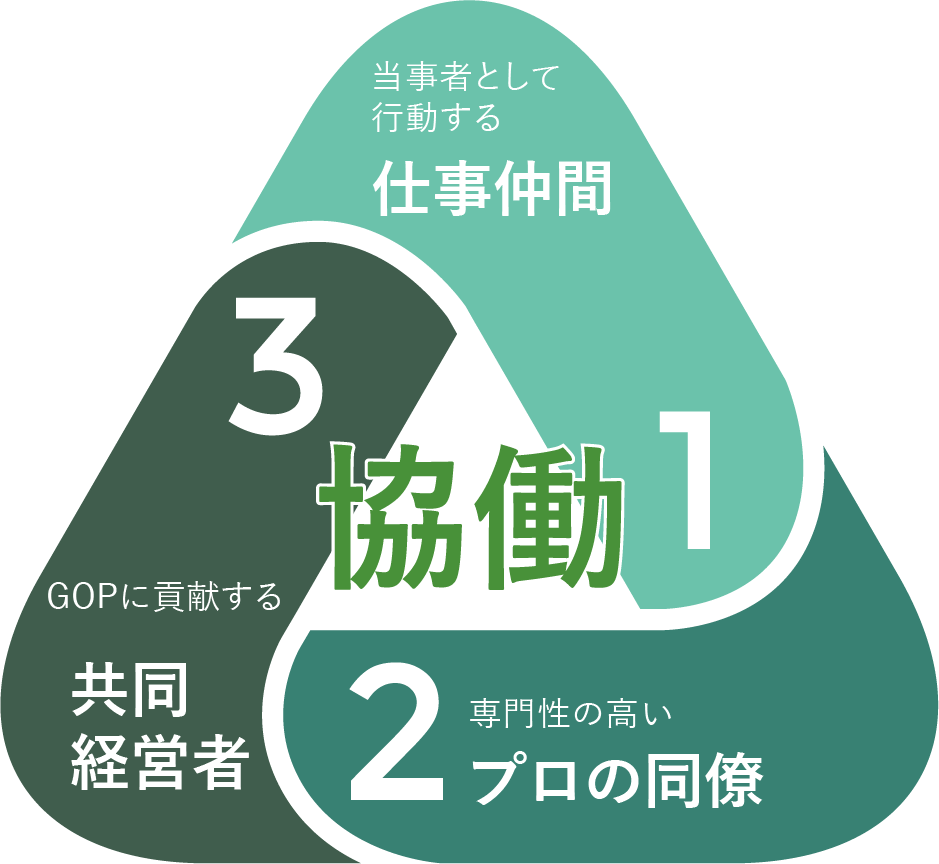
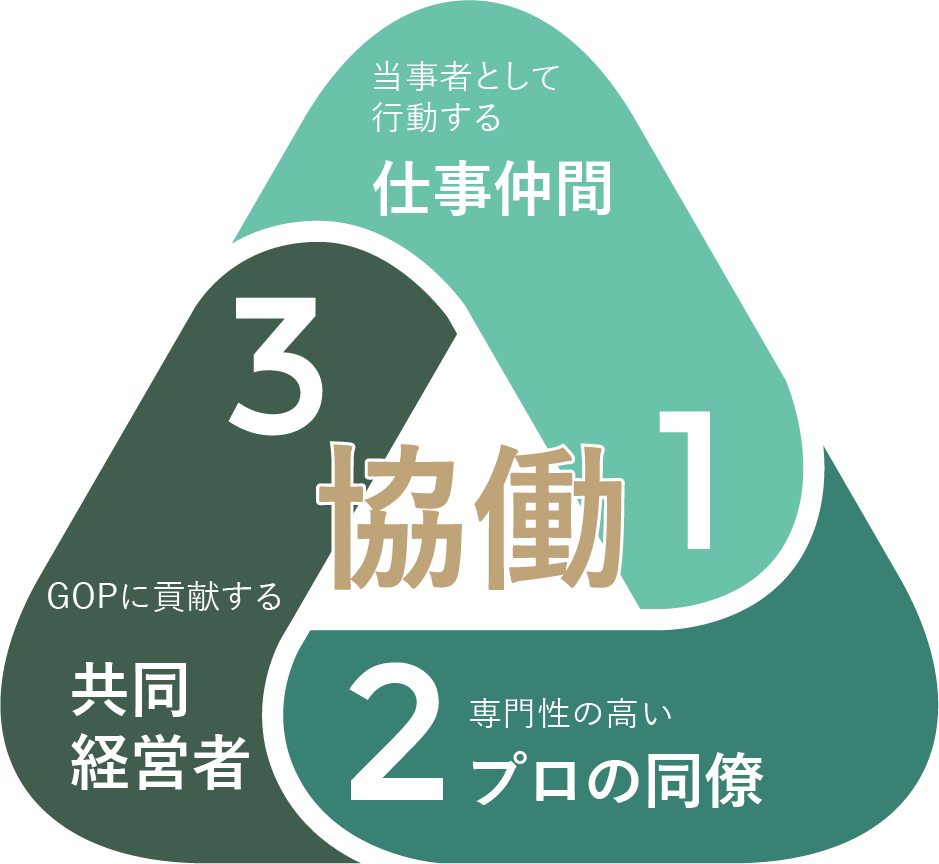
最終commit忘れ

Changed region(s): [[0.3397, 0.5, 0.6794, 0.6875]]

diff --git a/js/script.js b/js/script.js
@@ -1,3 +1,4 @@
+
 /*===========================================================*/
 /*機能編 8-1-1ページの先頭にスムーススクロールする*/
 /*===========================================================*/
@@ -61,7 +62,7 @@ $('.slider').slick({
 /*===========================================================*/
 
 function delayScrollAnime() {
-  var time = 0.2; //遅延時間を増やす秒数の値
+  var time = 0.3; //遅延時間を増やす秒数の値
   var value = time;
   $('.delayScroll').each(function () {
     var parent = this; //親要素を取得
@@ -195,6 +196,7 @@ function fadeAnime() {
     delayScrollAnime();
     fadeAnime(); //印象編 4 最低限おぼえておきたい動きの関数を呼ぶ
     SmoothTextAnime();
+    BlurTextAnimeControl();/* アニメーション用の関数を呼ぶ*/
   });
 
   // ページが読み込まれたらすぐに動かしたい場合の記述
@@ -203,4 +205,5 @@ function fadeAnime() {
     delayScrollAnime();
     fadeAnime(); //印象編 4 最低限おぼえておきたい動きの関数を呼ぶ
     SmoothTextAnime();
+    BlurTextAnimeControl();/* アニメーション用の関数を呼ぶ*/
   }); // ここまでページが読み込まれたらすぐに動かしたい場合の記述

diff --git a/css/module/modules.css b/css/module/modules.css
@@ -227,9 +227,9 @@
     display: block;
     padding: 0.7rem;
   }
-  .nav-menu-item:last-child {
+  /* .nav-menu-item:last-child {
     margin-top: 0.7rem;
-  }
+  } */
   .nav-menu.is-active {
     left: 0;
   }
@@ -258,7 +258,7 @@
     z-index: 999;
   }
   .nav-menu-contact {
-    top: 70% !important;
+    top: 73% !important;
   }
   .nav-menu-item-contact {
     margin-left: 0;
@@ -290,7 +290,7 @@
 }
 .section-header {
   margin: 0 0 2.5em 0;
-  line-height: 1.2;
+  /* line-height: 1.2; */
 }
 .section-title {
   margin: 0;
@@ -908,7 +908,7 @@
   left: 40px;
   width: 70px;
   height: 2px;
-  background-color: #2b550e;
+  background-color: #C0A479;
   z-index: 1;
   margin-right: 160px;
 }
@@ -993,6 +993,9 @@
   width: 90px;
   overflow: hidden;
   margin: 0 auto;
+}
+.consept-text span {
+  display: inline-block;
 }
 /* box */
 .boxes {

diff --git a/css/parts/parts.css b/css/parts/parts.css
@@ -329,7 +329,7 @@
 /* その場で */
 .fadeIn {
   animation-name: fadeInAnime;
-  animation-duration: 1s;
+  animation-duration: 2s;
   animation-fill-mode: forwards;
   opacity: 0;
 }
@@ -930,3 +930,4 @@ body.appear .fluid-lead h2 {
     display: block;
   }
 }
+

diff --git a/company.php b/company.php
@@ -25,10 +25,10 @@ get_header();
           <h3><span class="bgextend bgLRextendTrigger"><span class="bgappearTrigger">As Associates</span></span></h3>
         </div>
         <div class="l-multicolumn l-2column">
-          <div class="l-column consept-text">
-            <p class="fadeUpTrigger">お客様に対して「仕事仲間であり、頼れるプロの同僚であり、共同経営者である」という３つの役割と価値を提供したいという想いから事業やサービスを通じて提供する価値を「As Associates」という言葉で表現しています。</p>
-            <p class="fadeUpTrigger">そして「As Associates」という提供価値を実現させる為に当社が最も大切にしている活動コンセプトを「協働」という二文字で表現しています。</p>
-            <p class="fadeUpTrigger">私達の強みは開発力でもなく、アイデアでもなく、専門知識でもなく、豊かな業界経験でもありません。お客様に寄り添い、共に試行錯誤し最後は必ずやり切るという「協働」の姿勢こそが私達だけが作り出せる独自の強みであり、「As Associates」という事業価値を提供する為の最初の一歩であると考えています。 </p>
+          <div class="l-column consept-text delayScroll">
+            <p>お客様に対して「仕事仲間であり、頼れるプロの同僚であり、共同経営者である」という３つの役割と価値を提供したいという想いから事業やサービスを通じて提供する価値を<span>「As Associates」</span>という言葉で表現しています。</p>
+            <p>そして「As Associates」という提供価値を実現させる為に当社が最も大切にしている活動コンセプトを「協働」という二文字で表現しています。</p>
+            <p>私達の強みは開発力でもなく、アイデアでもなく、専門知識でもなく、豊かな業界経験でもありません。お客様に寄り添い、共に試行錯誤し最後は必ずやり切るという「協働」の姿勢こそが私達だけが作り出せる独自の強みであり、「As Associates」という事業価値を提供する為の最初の一歩であると考えています。 </p>
           </div>
           <div class="concept-list l-column"> <img src="<?php echo get_template_directory_uri(); ?>/images/associates.png" alt=""/> </div>
         </div>
@@ -41,7 +41,7 @@ get_header();
       </header>
       <div class="vision-area__header">
         <h3><span class="bgextend bgLRextendTrigger"><span class="bgappearTrigger">メディアウェイブ 2030年ビジョン</span></span></h3>
-        <p>～ホテルオペレーションのイノベーションリーダーに～</p>
+        <p class="fluid-lead__text_small">～ホテルオペレーションのイノベーションリーダーに～</p>
       </div>
       <div class="vision-text">
         <p class="fadeInTrigger">人の喜びは必ず人から始まる。人は本来他者を喜ばせることが好きであり

diff --git a/page-service.php b/page-service.php
@@ -11,7 +11,7 @@ get_header();
         <h2 class="section-title"><span class="section-title__inner">Service</span></h2>
         <p class="section-subtitle">サービス一覧</p>
       </header>
-      <p class="section-header">「As Associate」=「仕事仲間であり、頼れるプロの同僚であり、共同経営者である」<br>という当社の提供価値を実現させるため宿泊業界で働く方の課題解決という視点とサービスを通じてお届けしたい想いをもとに4つのサービスコンセプトカテゴリを設定しサービス展開を行っています。</p>
+      <p class="section-header">「As Associate」=「仕事仲間であり、頼れるプロの同僚であり、共同経営者である」<br>という当社の提供価値を実現させるため宿泊業界で働く方の課題解決という視点でサービス展開を行っています。</p>
       <!-- <ul class="sort-btn">
         <li class="sort-btn__item">
           <dl>

diff --git a/front-page.php b/front-page.php
@@ -62,7 +62,7 @@ get_header();
 		  ?>
 	    </div>
       </div>
-      <a class="round_arrow arrow-position-right" href="/service/">サービス一覧へ</a> 
+      <!-- <a class="round_arrow arrow-position-right" href="/service/">サービス一覧へ</a>  -->
       </section>
     
   <!-- news -->
@@ -182,9 +182,7 @@ get_header();
 		  ?>
       <article class="l-column pick-up">
 		 <a href="<?php the_permalink(); ?>"><?php the_post_thumbnail(); ?></a>
-        <p class="section-item-info-title">
-          <?php the_time('Y/m/d'); ?>
-          </p>
+        <!-- <p class="section-item-info-title">投稿日付削除</p> -->
 	  </article>
 	  <?php
 		  endwhile;

diff --git a/vizu.php b/vizu.php
@@ -70,9 +70,9 @@ get_header();
         </section>
       </div>
 		<div class="service-btn-wrap">
-		<!-- <p class="service-btn-area">
+		<p class="service-btn-area">
 			 <a class="btn btn_highlighted" href="/service/" rel="noopener">サービス一覧に戻る</a>
-		</p> -->
+		</p>
 		 <p class="service-btn-area">
 			 <a class="btn btn_highlighted" href="https://mediawave.co.jp/service/lp/vizu/" target="_blank" rel="noopener">プラン詳細等詳しくはコチラ</a>
 		</p>

diff --git a/cleaningbord.php b/cleaningbord.php
@@ -127,9 +127,9 @@ get_header();
           <!-- /.cards .cards--col2 --> </div>
       </div>
 		<div class="service-btn-wrap">
-		<!-- <p class="service-btn-area">
+		<p class="service-btn-area">
 			 <a class="btn btn_highlighted" href="/service/" rel="noopener">サービス一覧に戻る</a>
-		</p> -->
+		</p>
 		 <p class="service-btn-area">
 			 <a class="btn btn_highlighted" href="/contact/" target="_blank" rel="noopener">プラン詳細等詳しくはコチラ</a>
 		</p>

diff --git a/ease.php b/ease.php
@@ -139,9 +139,9 @@ get_header();
           <!-- /.cards .cards--col2 --> </div>
       </div>
 		<div class="service-btn-wrap">
-		<!-- <p class="service-btn-area">
+		<p class="service-btn-area">
 			 <a class="btn btn_highlighted" href="/service/" rel="noopener">サービス一覧に戻る</a>
-		</p> -->
+		</p>
 		 <p class="service-btn-area">
 			 <a class="btn btn_highlighted" href="/contact/" target="_blank" rel="noopener">プラン詳細等詳しくはコチラ</a>
 		</p>

diff --git a/knot.php b/knot.php
@@ -87,9 +87,9 @@ get_header();
           <!-- /.cards .cards--col2 --> </div>
       </div>
 		<div class="service-btn-wrap">
-		<!-- <p class="service-btn-area">
+		<p class="service-btn-area">
 			 <a class="btn btn_highlighted" href="/service/" rel="noopener">サービス一覧に戻る</a>
-		</p> -->
+		</p>
 		 <p class="service-btn-area">
 			 <a class="btn btn_highlighted" href="/contact/" target="_blank" rel="noopener">プラン詳細等詳しくはコチラ</a>
 		</p>

diff --git a/hikari.php b/hikari.php
@@ -80,9 +80,9 @@ get_header();
         </section>
       </div>
 		<div class="service-btn-wrap">
-		<!-- <p class="service-btn-area">
+		<p class="service-btn-area">
 			 <a class="btn btn_highlighted" href="/service/" rel="noopener">サービス一覧に戻る</a>
-		</p> -->
+		</p>
 		 <p class="service-btn-area">
 			 <a class="btn btn_highlighted" href="http://mediawave-hikari.com/" target="_blank" rel="noopener">プラン詳細等詳しくはコチラ</a>
 		</p>

diff --git a/wifi.php b/wifi.php
@@ -76,9 +76,9 @@ get_header();
         </section>
       </div>
      <div class="service-btn-wrap">
-		<!-- <p class="service-btn-area">
+		<p class="service-btn-area">
 			 <a class="btn btn_highlighted" href="/service/" rel="noopener">サービス一覧に戻る</a>
-		</p> -->
+		</p>
 		 <p class="service-btn-area">
 			 <a class="btn btn_highlighted" href="/contact/" target="_blank" rel="noopener">プラン詳細等詳しくはコチラ</a>
 		</p>
